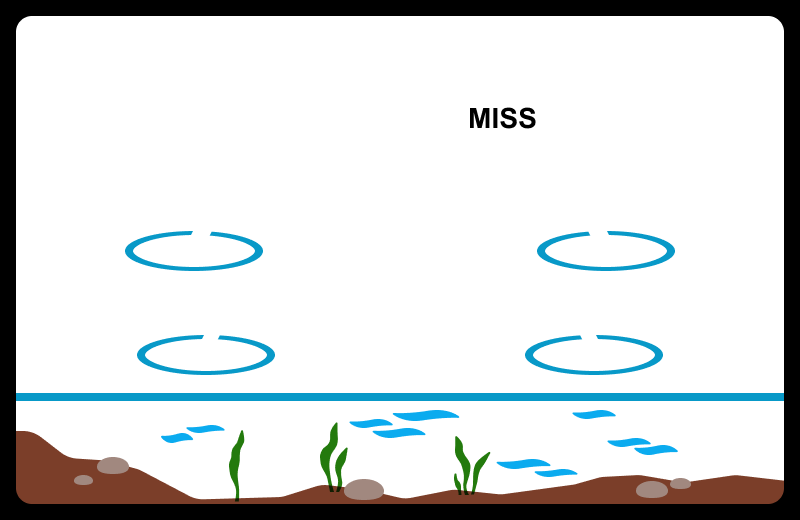
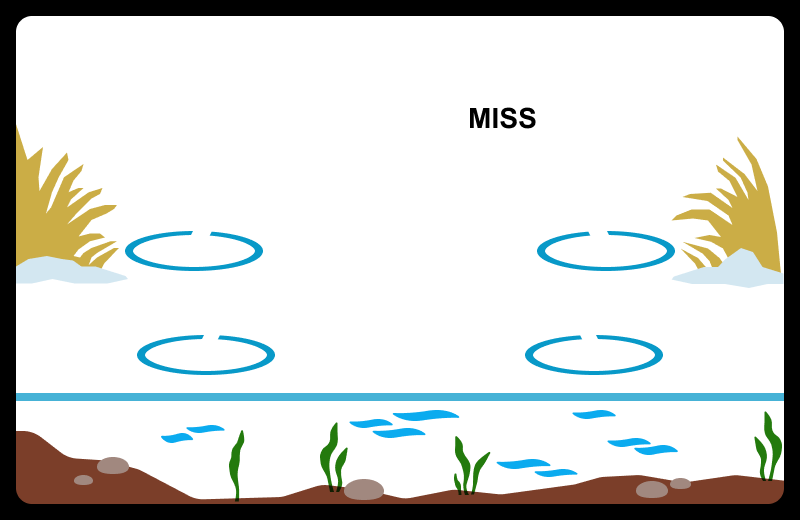
add loose animation new back

Changed region(s): [[0.0, 0.2462, 0.1562, 0.5538], [0.0, 0.7385, 1.0, 0.9231], [0.8438, 0.2769, 1.0, 0.5538]]

diff --git a/gw_2023_01/Assets/scripts/ObjectController.cs b/gw_2023_01/Assets/scripts/ObjectController.cs
@@ -40,10 +40,21 @@ public class ObjectController : MonoBehaviour
         {
             GameManager.ObjectCollected = false;
             GameManager.ObjNameToDelete = this.name;
+            GameManager.LooseObjectName = this.name;
+            GameManager.LooseState = true;
+
+            //Debug.Log("Loose"+GameManager.LooseObjectName);
         }
 
-        yield return null;
+        //last frame
+        if (this.FrameN == 7)
+        {
+            GameManager.LooseState = false;
+        }
+
+            yield return null;
     }
+
 
     void hidePrevious()
     {
@@ -57,24 +68,45 @@ public class ObjectController : MonoBehaviour
 
     void Update()
     {
-        if (GameManager.GameState)
+        //for all
+        if (GameManager.GameState == true && GameManager.LooseState == false)
         {
-            this.ObjectTime = this.ObjectTime + Time.unscaledDeltaTime;
+            objectLogic();
+        }
 
-            objectRender();
+        //for loose
+        if (GameManager.LooseState==true && GameManager.LooseObjectName == this.name)
+        {
+            objectLogic();
+        }
 
-            if (this.ObjectTime > 1f)
-            {
-                StartCoroutine(counterLogic());
+    }
 
-                this.FrameN++;
+    void objectLogic()
+    {
+        //time for object
+        this.ObjectTime = this.ObjectTime + Time.unscaledDeltaTime;
 
-                hidePrevious();
+        //render
+        objectRender();
 
-                this.ObjectTime = 0;
-            }
+        //each 1sec
+        if (this.ObjectTime > 1f)
+        {
+            //counterlogic
+            StartCoroutine(counterLogic());
+            
+            //addframe
+            this.FrameN++;
+           
+            //hide previous
+            hidePrevious();
+
+            //zero time
+            this.ObjectTime = 0;
         }
     }
+
 
     private void OnDestroy()
     {

diff --git a/gw_2023_01/Assets/scripts/GameManager.cs b/gw_2023_01/Assets/scripts/GameManager.cs
@@ -52,6 +52,7 @@ public class GameManager : MonoBehaviour
     private readonly List<int> objectsOrder = new List<int>(); //for random order
 
     public static string ObjNameToDelete;
+    public static string LooseObjectName;
 
     void Start()
     {
@@ -230,12 +231,13 @@ public class GameManager : MonoBehaviour
     {
         
         //listen kbd
+        
         ButtonInput();
 
         //check speed
         SpeedController();
 
-        if (GameState)
+        if (GameState == true && LooseState == false)
         {
             GameTime = GameTime + Time.unscaledDeltaTime;
 
@@ -324,6 +326,8 @@ public class GameManager : MonoBehaviour
         IdleState = false;
 
         PauseState = false;
+
+        LooseState = false;
     }
 
     public void PauseGame()
@@ -377,7 +381,7 @@ public class GameManager : MonoBehaviour
 
     void ButtonInput()
     {
-        if (GameState)
+        if (GameState==true && LooseState==false)
         {
             if (Input.GetKeyDown(KeyCode.Q))
             {
